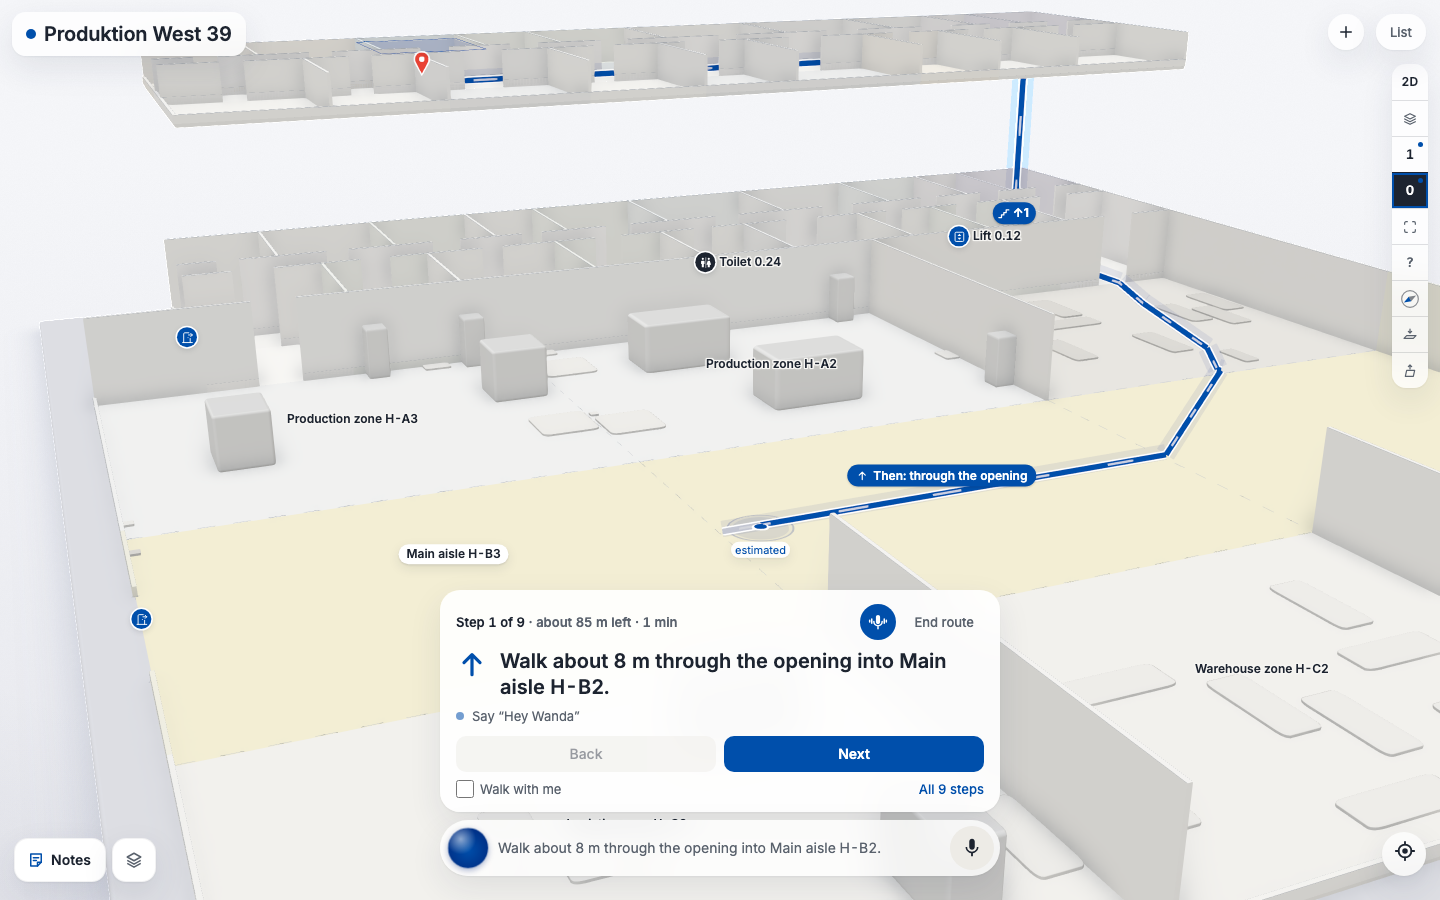
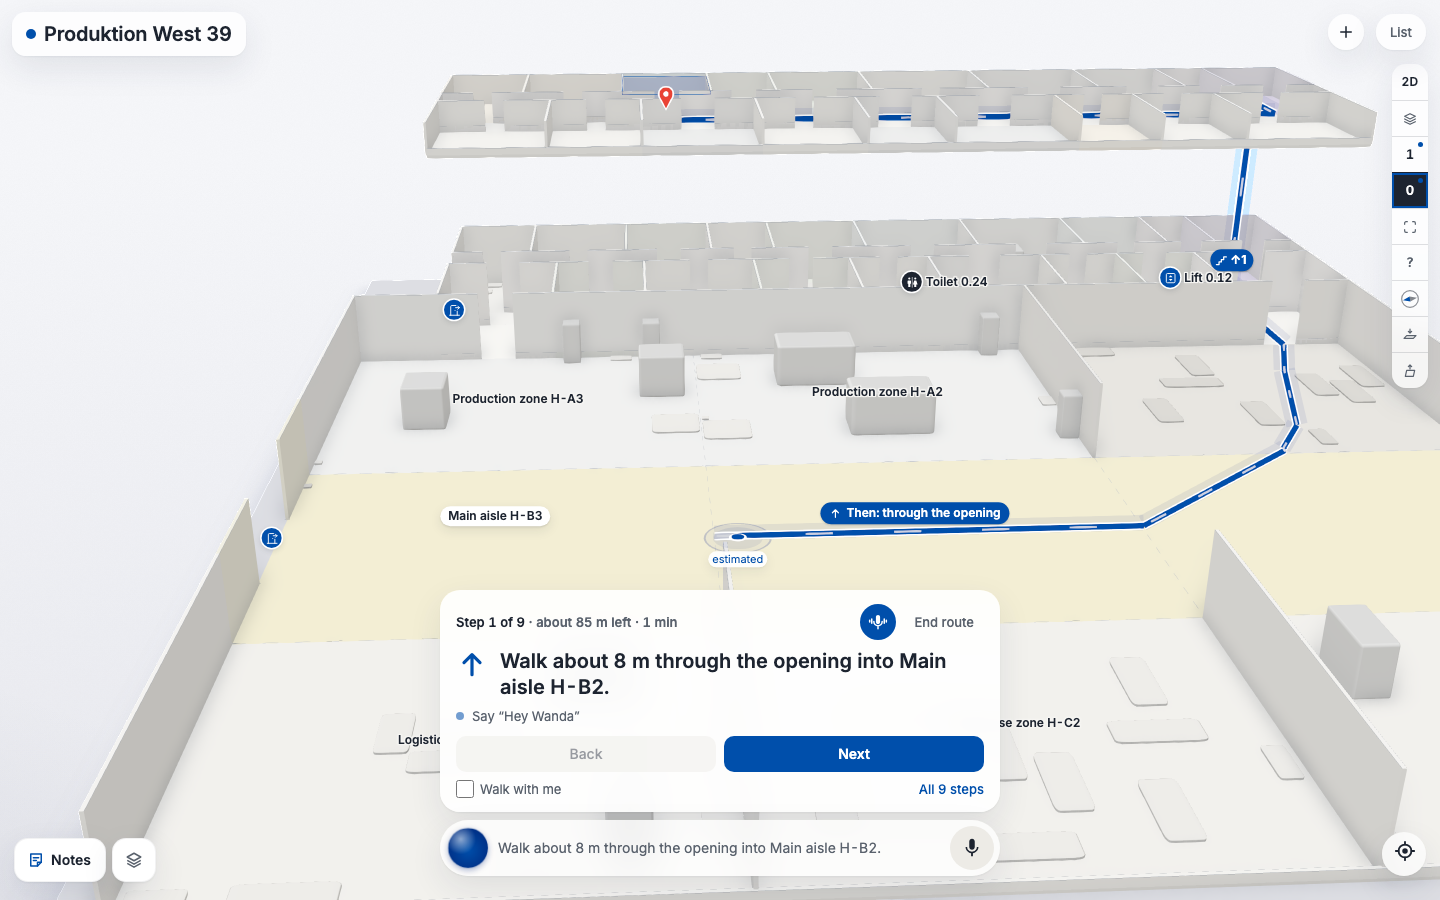
Widen the follow-cam lens on narrow screens

diff --git a/twin/src/scene/FollowCam.tsx b/twin/src/scene/FollowCam.tsx
@@ -31,6 +31,9 @@ const MAX_POLAR = 1.3;
 /** The target sits this far ahead of the dot (3D, metres), so the dot stays in the lower third of the visible map,
  * clear of the step card or the bottom sheet. */
 const AHEAD_M = 5;
+/** Narrow frames: the lens widens (up to MAX_FOV degrees) until this much of the building shows across. */
+const VIEW_WIDTH_M = 22;
+const MAX_FOV = 80;
 /** 2D: metres across the shorter side of the canvas, and the share of it the target leads the dot. */
 const PLAN_SPAN_M = 26;
 const PLAN_AHEAD = 0.06;
@@ -87,6 +90,8 @@ export function FollowCam({ model, floorY }: Props) {
     polar: POLAR,
     distance: DISTANCE_M,
     zoom: 1,
+    fov: 0,
+    baseFov: 0,
     target: new THREE.Vector3(),
     want: new THREE.Vector3(),
     position: new THREE.Vector3(),
@@ -112,8 +117,18 @@ export function FollowCam({ model, floorY }: Props) {
     s.step = -1;
     s.needInit = true;
     s.pausedUntil = 0;
+    const lens = camera as THREE.PerspectiveCamera;
+    if (lens.isPerspectiveCamera) {
+      s.baseFov = lens.fov;
+      s.fov = lens.fov;
+    }
     invalidate();
     return () => {
+      // The wider lens used on narrow screens goes back with the view.
+      if (lens.isPerspectiveCamera && s.baseFov > 0 && lens.fov !== s.baseFov) {
+        lens.fov = s.baseFov;
+        lens.updateProjectionMatrix();
+      }
       if (s.published) {
         s.published = false;
         if (!walkWithMeDriving()) useWalkMotion.setState({ estimate: null, uncertaintyM: 0, arrived: false });
@@ -304,6 +319,8 @@ export function FollowCam({ model, floorY }: Props) {
         }
       }
     }
+    // A wider lens shows more ground per metre of lead: lead more to keep the dot in the lower third.
+    if (!flat && !ortho && s.baseFov > 0 && s.fov > 0) lead *= s.fov / s.baseFov;
     // Ahead of the dot along the smoothed heading: the walking direction is -(sin θ, cos θ) in world x/z.
     s.want.set(point.x - Math.sin(s.azimuth) * lead, y, -point.y - Math.cos(s.azimuth) * lead);
     const kMove = instant ? 1 : 1 - Math.exp(-dt / MOVE_TAU_S);
@@ -316,6 +333,19 @@ export function FollowCam({ model, floorY }: Props) {
     s.polar += (wantPolar - s.polar) * kFrame;
     s.distance += (wantDistance - s.distance) * kFrame;
     s.zoom += (wantZoom - s.zoom) * kFrame;
+    // Narrow frames (a phone under its sheet is about 0.3 wide) get a wider lens so that about VIEW_WIDTH_M of the
+    // building shows across at the dot; wide screens keep the lens as it is.
+    let wantFov = s.baseFov;
+    if (!ortho && !flat && s.baseFov > 0) {
+      const lens = camera as THREE.PerspectiveCamera;
+      const need = 2 * Math.atan(VIEW_WIDTH_M / 2 / (wantDistance * Math.max(0.1, lens.aspect)));
+      wantFov = THREE.MathUtils.clamp(THREE.MathUtils.radToDeg(need), s.baseFov, MAX_FOV);
+      s.fov += (wantFov - s.fov) * kFrame;
+      if (Math.abs(lens.fov - s.fov) > 1e-3) {
+        lens.fov = s.fov;
+        lens.updateProjectionMatrix();
+      }
+    }
 
     const sinPolar = Math.sin(s.polar);
     s.position.set(
@@ -327,7 +357,7 @@ export function FollowCam({ model, floorY }: Props) {
     if (ortho && Math.abs(camera.zoom - s.zoom) > 1e-3) void c.zoomTo(s.zoom, false);
 
     const settled =
-      gap < 0.01 && Math.abs(turn) < 0.002 && Math.abs(wantPolar - s.polar) < 0.002 && Math.abs(wantDistance - s.distance) < 0.01 && Math.abs(wantZoom - s.zoom) < 0.01;
+      gap < 0.01 && Math.abs(turn) < 0.002 && Math.abs(wantPolar - s.polar) < 0.002 && Math.abs(wantDistance - s.distance) < 0.01 && Math.abs(wantZoom - s.zoom) < 0.01 && Math.abs(wantFov - s.fov) < 0.05;
     if (moving || !settled) invalidate();
   });
 
